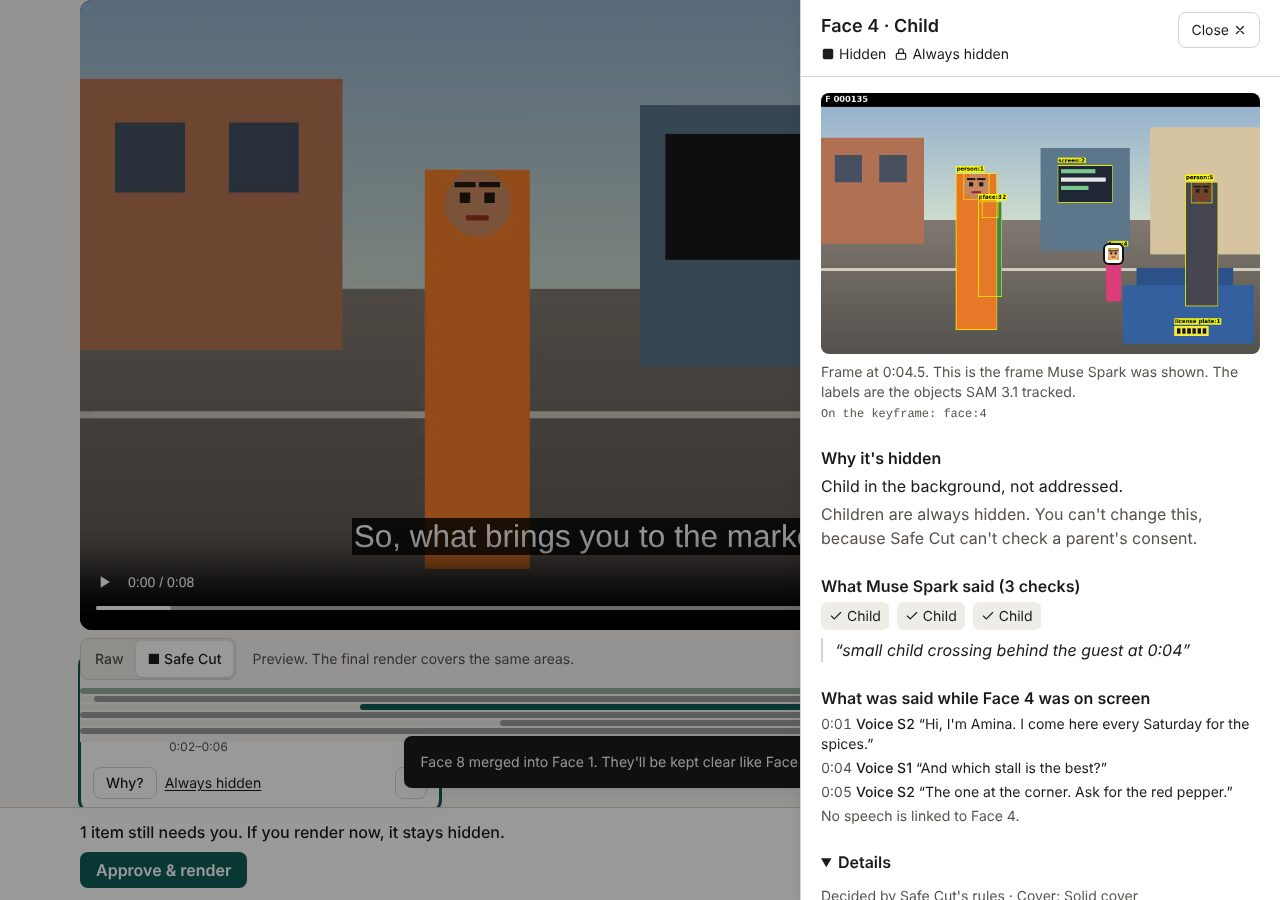
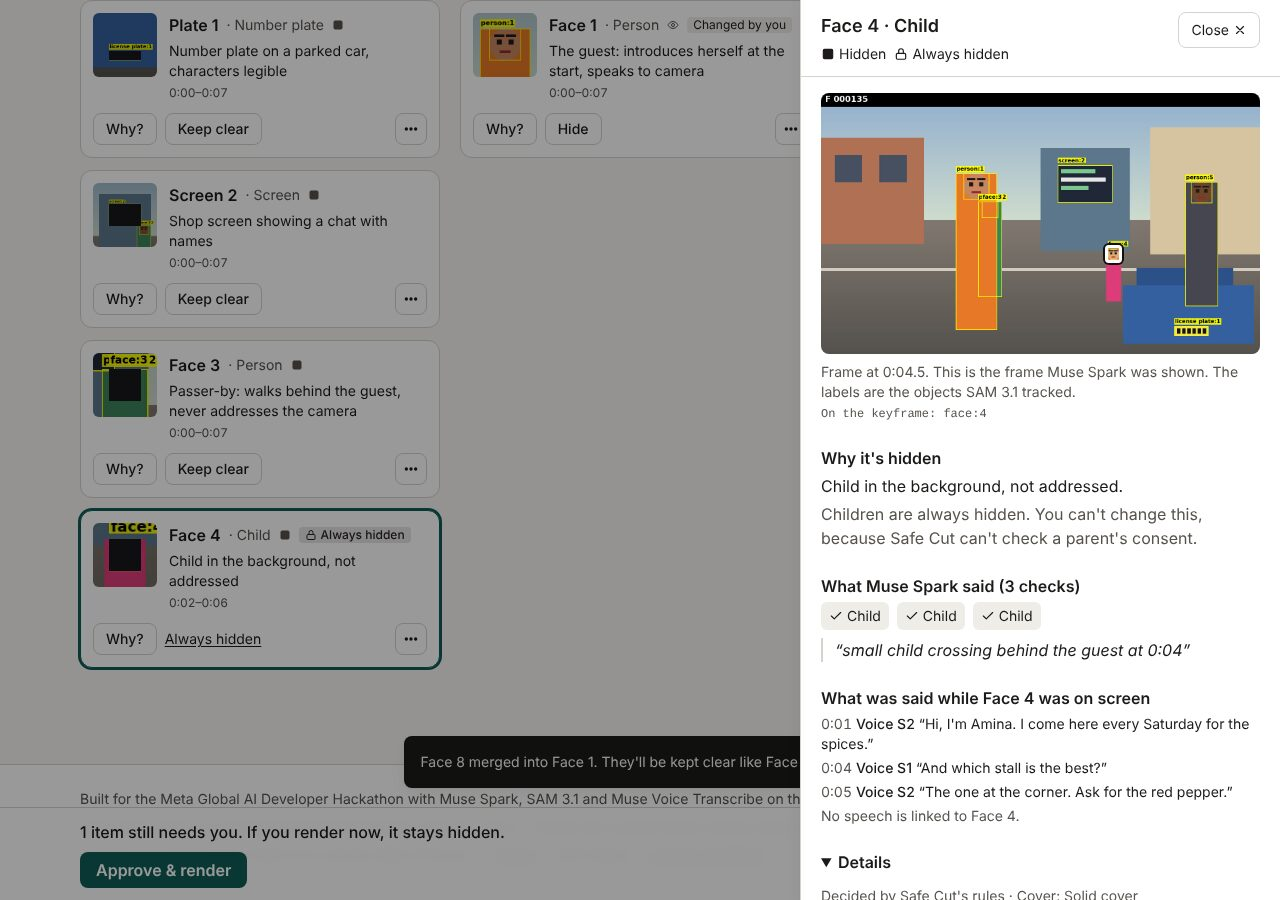
fix(web): audit round 7 (1 high, 1 medium, 2 low): desktop player no longer covers the chips, focus never under the bar
- The review player is sticky only below lg: on desktop the min-height
  variant had made it sticky, covering every chip at 1280x720.
- Scroll padding follows the player's and bar's real computed position;
  under 480 px tall (400% zoom) the bottom bar sits in the flow.
- 429 on Try again or Delete holds the control until Retry-After.
- First frame on /try step C; reentry_of defaults to null (WP0 omits it);
  one delete at a time.
- e2e covers 1280x720, 1366x768, 320x400 and 480x270; screenshots refreshed.

Claude-Session: https://claude.ai/code/session_01PMv2tTJFHGsGC5rcjHFfL1

diff --git a/web/src/components/job/ProgressView.tsx b/web/src/components/job/ProgressView.tsx
@@ -6,6 +6,7 @@
 import { useEffect, useRef, useState } from "react";
 import { ApiError, isMockMode } from "@/lib/api";
 import { getClient } from "@/lib/client";
+import { useCooldown } from "@/hooks/useCooldown";
 import { COPY } from "@/lib/copy";
 import { StageList } from "../StageList";
 import { ConfirmDialog, btn } from "../ui";
@@ -29,6 +30,7 @@ export function ProgressView({
   onDeleting,
   onDeleted,
   headingLevel = 2,
+  firstFrameUrl = null,
 }: {
   fileName: string | null;
   duration: number | null;
@@ -40,6 +42,8 @@ export function ProgressView({
   /** The confirmed delete is on its way; `done` says whether it worked. */
   onDeleting?: (done: Promise<boolean>) => void;
   onDeleted: () => void;
+  /** The prepared clip, once `prepare` made it: its first frame shows, with no overlay yet (§2.3, §2.9). */
+  firstFrameUrl?: string | null;
   /** 1 on its own page (/jobs/[id]); 2 under /try's page heading. */
   headingLevel?: 1 | 2;
 }) {
@@ -49,6 +53,9 @@ export function ProgressView({
   const [seenMissLoop, setSeenMissLoop] = useState(false);
   if (active === "miss_loop" && !seenMissLoop) setSeenMissLoop(true);
   const [deleteError, setDeleteError] = useState<string | null>(null);
+  const { coolingDown, coolDown } = useCooldown();
+  /** One delete at a time: the button waits for the answer. */
+  const [deleting, setDeleting] = useState(false);
   const [copied, setCopied] = useState<"idle" | "copied" | "failed">("idle");
   const linkRef = useRef<HTMLElement>(null);
   // "Copied" goes back to "Copy link" after a moment, so a second copy also confirms.
@@ -60,13 +67,18 @@ export function ProgressView({
   const link = typeof window === "undefined" ? `/jobs/${jobId}` : `${window.location.origin}/jobs/${encodeURIComponent(jobId)}`;
   const doDelete = async () => {
     setConfirm(false);
+    setDeleting(true);
     const attempt = getClient().deleteJob(jobId);
     onDeleting?.(attempt.then(() => true, () => false));
     try {
       await attempt;
       onDeleted();
     } catch (error) {
-      setDeleteError(error instanceof ApiError && error.status === 429 ? COPY.rateLimited : COPY.unexpected);
+      const limited = error instanceof ApiError && error.status === 429;
+      if (limited) coolDown(error.retryAfterS);
+      setDeleteError(limited ? COPY.rateLimited : COPY.unexpected);
+    } finally {
+      setDeleting(false);
     }
   };
   return (
@@ -76,6 +88,16 @@ export function ProgressView({
           {fileName}
           {duration !== null ? ` · ${fmtDuration(duration)}` : ""}
         </p>
+      )}
+      {firstFrameUrl && (
+        <video
+          src={firstFrameUrl}
+          preload="metadata"
+          muted
+          playsInline
+          aria-label="The first frame of your clip, before anything is covered"
+          className="mt-4 aspect-video w-full max-w-md rounded-lg bg-black"
+        />
       )}
       <Heading data-step-heading tabIndex={-1} className="mt-4 text-xl font-semibold">
         Working on your clip
@@ -121,7 +143,7 @@ export function ProgressView({
             {deleteError}
           </p>
         )}
-        <button type="button" className={btn.danger} onClick={() => setConfirm(true)}>
+        <button type="button" className={btn.danger} disabled={coolingDown || deleting} onClick={() => setConfirm(true)}>
           Cancel and delete
         </button>
       </div>

diff --git a/web/src/components/review/ReviewPanel.tsx b/web/src/components/review/ReviewPanel.tsx
@@ -241,15 +241,24 @@ export function ReviewPanel({ jobId, job, viewReview, onPatchJob, onResume, onRe
   const bottomBar = useRef<HTMLDivElement>(null);
   useEffect(() => {
     const root = document.documentElement;
+    // The player sticks only on narrow, tall-enough screens (its classes); measure what it does
+    // rather than guess, so a static player never pads focus under the bottom bar.
     const measure = () => {
-      root.style.setProperty("--sticky-top", `${desktop ? 0 : (stickyTop.current?.offsetHeight ?? 0)}px`);
-      root.style.setProperty("--sticky-bottom", `${(bottomBar.current?.offsetHeight ?? 0) + 8}px`);
+      const top = stickyTop.current;
+      const sticky = !!top && getComputedStyle(top).position === "sticky";
+      root.style.setProperty("--sticky-top", `${sticky ? top.offsetHeight : 0}px`);
+      const bar = bottomBar.current;
+      const fixed = !!bar && getComputedStyle(bar).position === "fixed";
+      root.style.setProperty("--sticky-bottom", `${fixed ? bar.offsetHeight + 8 : 0}px`);
     };
     const ro = new ResizeObserver(measure);
     if (stickyTop.current) ro.observe(stickyTop.current);
     if (bottomBar.current) ro.observe(bottomBar.current);
+    const heights = [window.matchMedia("(min-height: 640px)"), window.matchMedia("(min-height: 480px)")];
+    for (const q of heights) q.addEventListener("change", measure);
     measure();
     return () => {
+      for (const q of heights) q.removeEventListener("change", measure);
       ro.disconnect();
       root.style.removeProperty("--sticky-top");
       root.style.removeProperty("--sticky-bottom");
@@ -501,7 +510,7 @@ export function ReviewPanel({ jobId, job, viewReview, onPatchJob, onResume, onRe
         </p>
       </div>
 
-      <div ref={stickyTop} className="-mx-4 mt-3 bg-bg px-4 pb-2 lg:static lg:mx-0 lg:px-0 [@media(min-height:640px)]:sticky [@media(min-height:640px)]:top-0 [@media(min-height:640px)]:z-10">
+      <div ref={stickyTop} className="-mx-4 mt-3 bg-bg px-4 pb-2 lg:mx-0 lg:px-0 max-lg:[@media(min-height:640px)]:sticky max-lg:[@media(min-height:640px)]:top-0 max-lg:[@media(min-height:640px)]:z-10">
         <VideoPane
           ref={video}
           src={job.job?.prepared_url}
@@ -896,7 +905,9 @@ function BottomBar({
   }
 
   return (
-    <div ref={barRef} className="fixed inset-x-0 bottom-0 z-20 border-t border-border bg-surface/95 backdrop-blur">
+    // Fixed only where it leaves room to work: on a very short screen (400% zoom) it would cover
+    // nearly everything, so it sits at the end of the panel instead (WCAG 2.4.11, 1.4.10).
+    <div ref={barRef} className="mt-6 border-t border-border bg-surface/95 backdrop-blur [@media(min-height:480px)]:fixed [@media(min-height:480px)]:inset-x-0 [@media(min-height:480px)]:bottom-0 [@media(min-height:480px)]:z-20 [@media(min-height:480px)]:mt-0">
       <div className="mx-auto flex max-w-6xl flex-col gap-2 px-4 py-3">
         {state.capNote && <p className="text-sm">{COPY.codeCapJob}</p>}
         {text && <p className="font-medium">{text}</p>}

diff --git a/web/src/components/job/FailedJob.tsx b/web/src/components/job/FailedJob.tsx
@@ -2,7 +2,9 @@
 /** A failed job (UI-SPEC §2.6, §10.3): the reason's copy and only the actions it allows. */
 import Link from "next/link";
 import { useState } from "react";
+import { useCooldown } from "@/hooks/useCooldown";
 import { useNow } from "@/hooks/useNow";
+import { RATE_LIMIT_DEFAULT_MS } from "@/lib/polling";
 import { ApiError } from "@/lib/api";
 import { getClient } from "@/lib/client";
 import type { JobResponse } from "@/lib/contracts";
@@ -17,6 +19,7 @@ export function FailedJob({ jobId, job, onResume, onDeleted }: { jobId: string; 
   const [busy, setBusy] = useState(false);
   const [confirm, setConfirm] = useState(false);
   const [deleteError, setDeleteError] = useState<string | null>(null);
+  const { coolingDown, coolDown } = useCooldown();
   const now = useNow(15_000);
   const retryAt = view.retryAt ? Date.parse(view.retryAt) : null;
 
@@ -46,7 +49,11 @@ export function FailedJob({ jobId, job, onResume, onDeleted }: { jobId: string; 
       } else if (e?.status === 422) {
         setNote(COPY.jobCapJob);
         setBlocked(true);
-      } else if (e?.status === 429) setNote(COPY.rateLimited);
+      } else if (e?.status === 429) {
+        setNote(COPY.rateLimited);
+        // The button that sent it waits out Retry-After (or 60 s) (§10.3).
+        setBlockedUntil(Date.now() + (e.retryAfterS ?? RATE_LIMIT_DEFAULT_MS / 1000) * 1000);
+      }
       else if (e?.status === 503) setNote(e.code === "billing" ? COPY.billing : COPY.auditorUnavailable);
       else if (e?.status === 409) onResume();
       else if (e?.kind === "network" || e?.kind === "timeout") {
@@ -64,7 +71,9 @@ export function FailedJob({ jobId, job, onResume, onDeleted }: { jobId: string; 
       await getClient().deleteJob(jobId);
       onDeleted();
     } catch (error) {
-      setDeleteError(error instanceof ApiError && error.status === 429 ? COPY.rateLimited : COPY.unexpected);
+      const limited = error instanceof ApiError && error.status === 429;
+      if (limited) coolDown(error.retryAfterS);
+      setDeleteError(limited ? COPY.rateLimited : COPY.unexpected);
     }
   };
 
@@ -98,7 +107,7 @@ export function FailedJob({ jobId, job, onResume, onDeleted }: { jobId: string; 
             Download this version
           </a>
         )}
-        <button type="button" className={btn.danger} onClick={() => setConfirm(true)}>
+        <button type="button" className={btn.danger} disabled={coolingDown} onClick={() => setConfirm(true)}>
           Delete now
         </button>
       </div>

diff --git a/web/src/components/job/JobPage.test.tsx b/web/src/components/job/JobPage.test.tsx
@@ -358,11 +358,35 @@ describe("job states", () => {
     expect(screen.getAllByRole("heading", { level: 1 })).toHaveLength(1);
   });
 
+  it("a rate-limited Try again or Delete waits out Retry-After before it works again (§10.3)", async () => {
+    const user = setup("job-failed-roles");
+    await screen.findByRole("button", { name: "Try again" });
+    backend.inject(/\/start$/, "error-429-rate");
+    await user.click(screen.getByRole("button", { name: "Try again" }));
+    expect(await screen.findByText("Too many tries in a short time. Wait a minute and try again.")).toBeInTheDocument();
+    expect(screen.getByRole("button", { name: "Try again" })).toBeDisabled();
+    backend.inject(/^DELETE /, "error-429-rate");
+    await user.click(screen.getByRole("button", { name: "Delete now" }));
+    await user.click(within(await screen.findByRole("dialog")).getByRole("button", { name: "Delete" }));
+    await waitFor(() => expect(screen.getByRole("button", { name: "Delete now" })).toBeDisabled());
+  });
+
+  it("a rate-limited Cancel and delete while processing waits out Retry-After", async () => {
+    const user = setup("job-processing-track");
+    await screen.findByRole("button", { name: "Cancel and delete" });
+    backend.inject(/^DELETE /, "error-429-rate");
+    await user.click(screen.getByRole("button", { name: "Cancel and delete" }));
+    await user.click(within(await screen.findByRole("dialog")).getByRole("button", { name: "Delete" }));
+    await waitFor(() => expect(screen.getByRole("button", { name: "Cancel and delete" })).toBeDisabled());
+  });
+
   it("shows the stage list while processing", async () => {
     setup("job-processing-track");
     const active = await screen.findByRole("listitem", { current: "step" });
     expect(active).toHaveTextContent("Finding people and objects");
     expect(active).toHaveTextContent("SAM 3.1 is looking for faces, people, plates, screens and documents.");
+    // The prepared clip's first frame, with no overlay yet (§2.3, §2.9).
+    expect(screen.getByLabelText("The first frame of your clip, before anything is covered")).toHaveAttribute("preload", "metadata");
   });
 
   it("moves a done job to its result unless opened for review", async () => {

diff --git a/web/src/components/job/ResultPage.tsx b/web/src/components/job/ResultPage.tsx
@@ -12,6 +12,7 @@ import { URL_REFRESH_MS } from "@/lib/polling";
 import type { ResultResponse } from "@/lib/contracts";
 import { COPY, auditSummary, formatLocal } from "@/lib/copy";
 import { SITE, fromSigmora, keptQuery } from "@/lib/site";
+import { useCooldown } from "@/hooks/useCooldown";
 import { useJob } from "@/hooks/useJob";
 import { CheckIcon, WarningIcon } from "../icons";
 import { useMode, useReportMode } from "../mode";
@@ -91,6 +92,7 @@ export function ResultPage() {
   const [detailOpen, setDetailOpen] = useState(false);
   const [confirm, setConfirm] = useState(false);
   const [deleteError, setDeleteError] = useState<string | null>(null);
+  const { coolingDown, coolDown } = useCooldown();
   const { replay } = useMode();
   useReportMode(job?.mode ?? (result.kind === "ready" ? result.result.mode : null));
 
@@ -164,7 +166,9 @@ export function ResultPage() {
       await getClient().deleteJob(id);
       markDeleted();
     } catch (error) {
-      setDeleteError(error instanceof ApiError && error.status === 429 ? COPY.rateLimited : COPY.unexpected);
+      const limited = error instanceof ApiError && error.status === 429;
+      if (limited) coolDown(error.retryAfterS);
+      setDeleteError(limited ? COPY.rateLimited : COPY.unexpected);
     }
   };
 
@@ -288,7 +292,7 @@ export function ResultPage() {
               {deleteError}
             </p>
           )}
-          <button type="button" className={btn.danger} onClick={() => setConfirm(true)}>
+          <button type="button" className={btn.danger} disabled={coolingDown} onClick={() => setConfirm(true)}>
             Delete everything now
           </button>
         </div>

diff --git a/web/src/hooks/useCooldown.ts b/web/src/hooks/useCooldown.ts
@@ -1,0 +1,20 @@
+"use client";
+import { useCallback, useEffect, useState } from "react";
+import { RATE_LIMIT_DEFAULT_MS } from "@/lib/polling";
+
+/**
+ * A control a `429` put on hold (UI-SPEC §10.3): `coolingDown` until `Retry-After` (or 60 s
+ * without one) has passed, then the control works again.
+ */
+export function useCooldown(): { coolingDown: boolean; coolDown: (retryAfterS: number | null) => void } {
+  const [until, setUntil] = useState<number | null>(null);
+  useEffect(() => {
+    if (until === null) return;
+    const t = setTimeout(() => setUntil(null), Math.max(0, until - Date.now()));
+    return () => clearTimeout(t);
+  }, [until]);
+  const coolDown = useCallback((retryAfterS: number | null) => {
+    setUntil(Date.now() + (retryAfterS !== null ? retryAfterS * 1000 : RATE_LIMIT_DEFAULT_MS));
+  }, []);
+  return { coolingDown: until !== null, coolDown };
+}

diff --git a/web/src/lib/contracts.test.ts b/web/src/lib/contracts.test.ts
@@ -1,0 +1,10 @@
+import { describe, expect, it } from "vitest";
+import { trackSchema } from "./contracts";
+
+describe("contracts", () => {
+  it("a track without reentry_of (WP0's default None, key left out) parses as null", () => {
+    const track = trackSchema.parse({ track_id: "face:1", concept: "face", first: 0, last: 3, boxes: { "0": [1, 2, 3, 4] } });
+    expect(track.reentry_of).toBeNull();
+    expect(trackSchema.parse({ ...track, reentry_of: "face:2" }).reentry_of).toBe("face:2");
+  });
+});

diff --git a/web/src/lib/contracts.ts b/web/src/lib/contracts.ts
@@ -65,7 +65,8 @@ export const trackSchema = z.object({
   concept: z.string(),
   first: frame,
   last: frame,
-  reentry_of: z.string().nullable(),
+  // WP0's Track defaults it to None, so its JSON may leave the key out (wp0-foundation's j_example fixture).
+  reentry_of: z.string().nullable().default(null),
   boxes: z.record(z.string(), boxSchema),
   child_phrase: z.boolean().optional(),
 });

diff --git a/web/src/components/try/TryFlow.tsx b/web/src/components/try/TryFlow.tsx
@@ -631,6 +631,7 @@ function Progress({
         jobId={jobId}
         etaS={uploading ? null : (job?.eta_s ?? null)}
         busy={job?.status === "retry_later"}
+        firstFrameUrl={job?.job?.prepared_url ?? null}
         onDeleting={onDeleting}
         onDeleted={onDeleted}
       />

diff --git a/web/src/components/job/JobPage.tsx b/web/src/components/job/JobPage.tsx
@@ -81,6 +81,7 @@ export function JobPage() {
             jobId={id}
             etaS={j.eta_s ?? null}
             busy={j.status === "retry_later"}
+            firstFrameUrl={j.job?.prepared_url ?? null}
             onDeleted={markDeleted}
             headingLevel={1}
           />

diff --git a/.agent/win/SAFECUT-WP6/reaudit.md b/.agent/win/SAFECUT-WP6/reaudit.md
@@ -1,4 +1,4 @@
-AUDITED_COMMIT: f690e1f
+AUDITED_COMMIT: d4bb6a1
 OPEN_CRITICAL: 0
 OPEN_HIGH: 0
 CLEAN_AUDITS_IN_A_ROW: 0
@@ -135,3 +135,18 @@ Fresh-clone README run also found: `pnpm typecheck` failed before any build (Nex
 | 4 | low | The demo banner waited for the first poll instead of the `POST /v1/jobs` answer (§6) | fixed: the create response's `mode` is reported at once; test |
 | 5 | low | κ shown with `toFixed(2)` could round up (AGENTS rule 9) | fixed: rounded down; test |
 | 6 | low | The preview drew every cover as its box, though §3.6 says solid covers take the mask's shape | fixed: COCO RLE decoding (`rle.ts`, cached), solid/person_solid regions with a frame-sized mask fill run by run. A mask that doesn't decode or doesn't fit the frame falls back to the box, so the preview never covers less than the plan. Property test against an independent pycocotools-style encoder (2,000 masks), overlay tests |
+
+## Round 7 (audited d4bb6a1 by a Sonnet reviewer, with real-browser probes; RLE decoder cross-checked against pycocotools 2.0.11 on 318 masks plus WP0's fixture, 0 mismatches; each finding traced here; fixes in the next commit)
+
+0 critical, 1 high, 1 medium, 2 low, plus three of its notes acted on.
+
+| # | Sev | Finding | Status |
+|---|---|---|---|
+| 1 | high | On desktop the 750 px player was `sticky` (the `min-height` variant outranked `lg:static`) and covered the chip columns: at 1280×720 no chip could be hit and 30/30 focus stops were hidden. This dated from round 2 | fixed: sticky only below `lg` (`max-lg:` variants). e2e at 1280×720 and 1366×768: the player is static and 0 of 12 focused chip buttons are covered |
+| 2 | med | `--sticky-top` padded scrolling by the player's height even when it wasn't sticky (short or zoomed screens), parking focus under the bottom bar | fixed: the player's and the bar's real computed position is measured, and re-measured on height breakpoint changes. On very short screens (< 480 px tall, 400% zoom) the bottom bar is no longer fixed: it sits at the end of the panel. e2e at 320×400 and 480×270: no top padding, 0 of 8 focused chips covered |
+| 3 | low | A 429 on Try again (failed job) or on Delete (progress, failed, result) left the control enabled (§10.3) | fixed: a shared `useCooldown` holds the control until `Retry-After` (or 60 s); Try again uses the page's existing until-timer. JobPage tests |
+| 4 | low | /try step C lacked the first frame (§2.3, §2.9) | fixed: the prepared clip's first frame, with no overlay, shows once `prepared_url` exists (/try and the job page); test |
+| note | — | `reentry_of` was required but WP0's Track defaults it to None and may omit it, so a whole job could fail to parse | fixed: defaults to null; contracts test |
+| note | — | A double-confirmed Delete could race; nothing showed while a DELETE was pending | fixed: Cancel and delete is disabled until the DELETE answers |
+| note | — | §3.8's example name "Keep Plate 1 clear" | kept "Keep clear Plate 1": the accessible name must contain the visible label "Keep clear" (WCAG 2.5.3 Label in Name), which the spec's wording would break |
+| note | — | "This version hasn't been fully checked." sits in the §5.3 banner rather than the bar | kept: it shows once, directly under the §5.3 message as the row says; the bar repeats it only when no audit banner exists |

diff --git a/.agent/win/SAFECUT-WP6/HANDOFF.md b/.agent/win/SAFECUT-WP6/HANDOFF.md
@@ -28,6 +28,13 @@
   - Field border contrast, an earlier demo banner, κ rounding.
   - Mask-shaped covers.
 - On the round-6 commit: 798 tests (26 files), e2e 73/73, `checks.sh` exit 0. Screenshots refreshed.
+- Audit round 7 (on d4bb6a1): 1 high, 1 medium and 2 low, all fixed in the round-7 commit. Highlights:
+  - The desktop player is no longer sticky over the chips.
+  - Scroll padding follows what really sticks, and the bar is static under 480 px tall.
+  - 429 cooldowns.
+  - The first frame on step C.
+- On the round-7 commit: 801 tests (27 files), e2e 81/81, `checks.sh` exit 0. Screenshots refreshed.
+- The audit agent hit the usage limit once (19:5x to 23:20 UTC). It resumed with SendMessage, keeping its saved work.
 - CLEAN_AUDITS_IN_A_ROW is 0. Two clean full audits are still needed, then a fresh break-it.md (fresh clone + FUZZ_RUNS=100000).
 
 ## Next steps, in order
